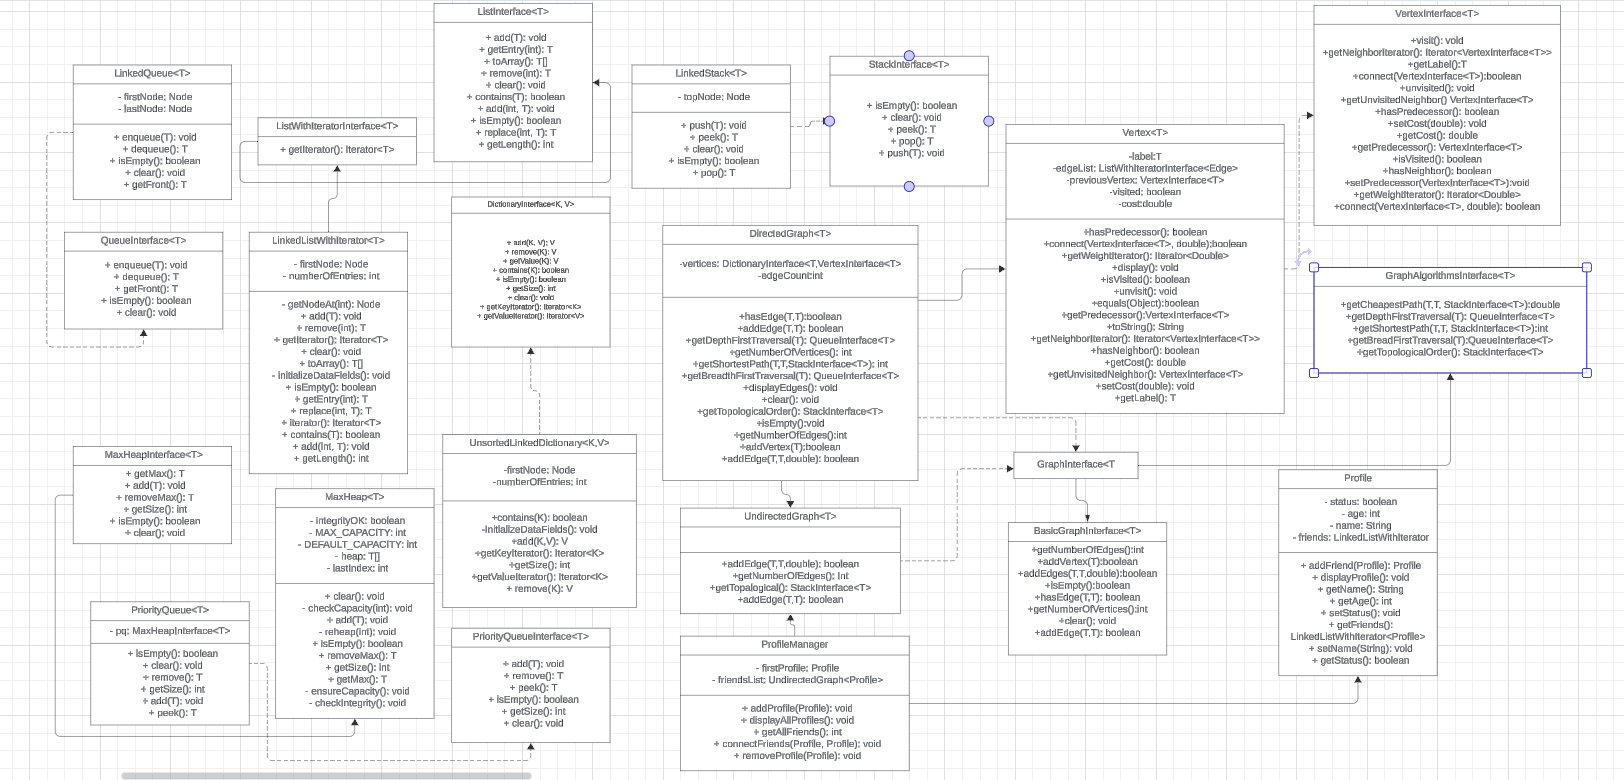
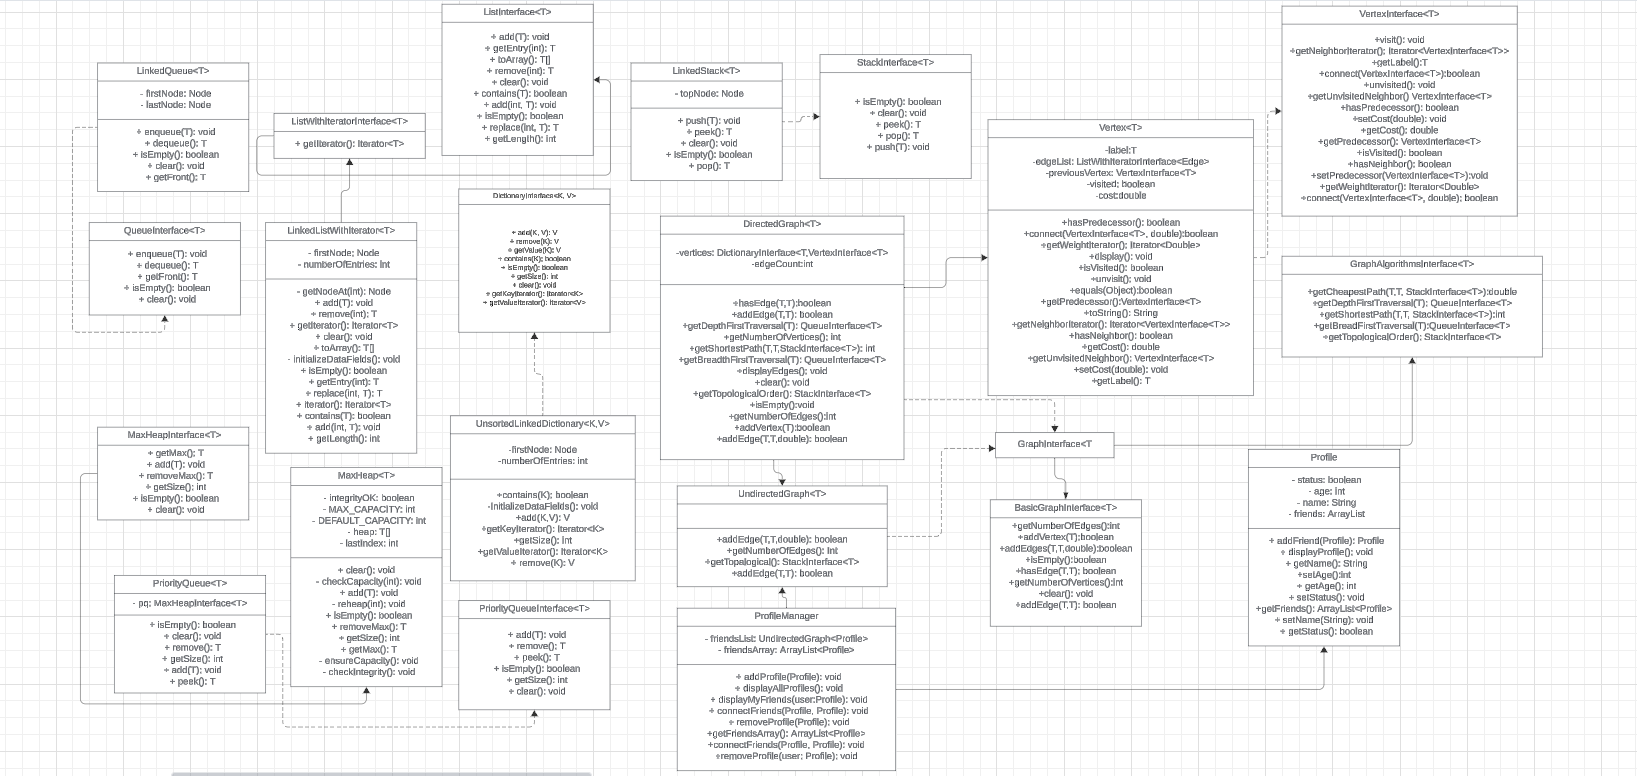
Updated UML image

diff --git a/src/java/Main.java b/src/java/Main.java
@@ -197,37 +197,14 @@ ProfileManager.java test
 DirectedGraph test
 UndirectedGraph test
 Vertex test
+UML (Anthony)
 
 TO BE COMPLETED
-UML (Anthony)
 add javadoc comments to Profile.java (Joe)
 add javadoc comments to ProfileManager.java (Joe)
 userSession in Main.java (Joe)
 
-
-meet Monday 3pm
 meet Tuesday 1pm
 
-UML corrections
-
-here is how methods should be written in the UML
-methodName(parameter name: parameter type): returnType, this is from pg.22 in the book,
-Eric said we should follow this pattern
-
-Profile
-setAge is missing
-friends should be an ArrayList
-getFriends(): ArrayList<Profile>
-setName(name: String): void
-setAge(age: int): void
-addFriend(friend: Profile): Profile
-
-ProfileManager
-remove firstProfile field
-add field    friendsArray: ArrayList<Profile>
-remove getAllFriends and replace it with displayMyFriends(user:Profile): void
-missing      getFriendsArray(): ArrayList<Profile>
-connectFriends(user1: Profile, user2: Profile): void
-removeProfile(user: Profile): void
 
  */
